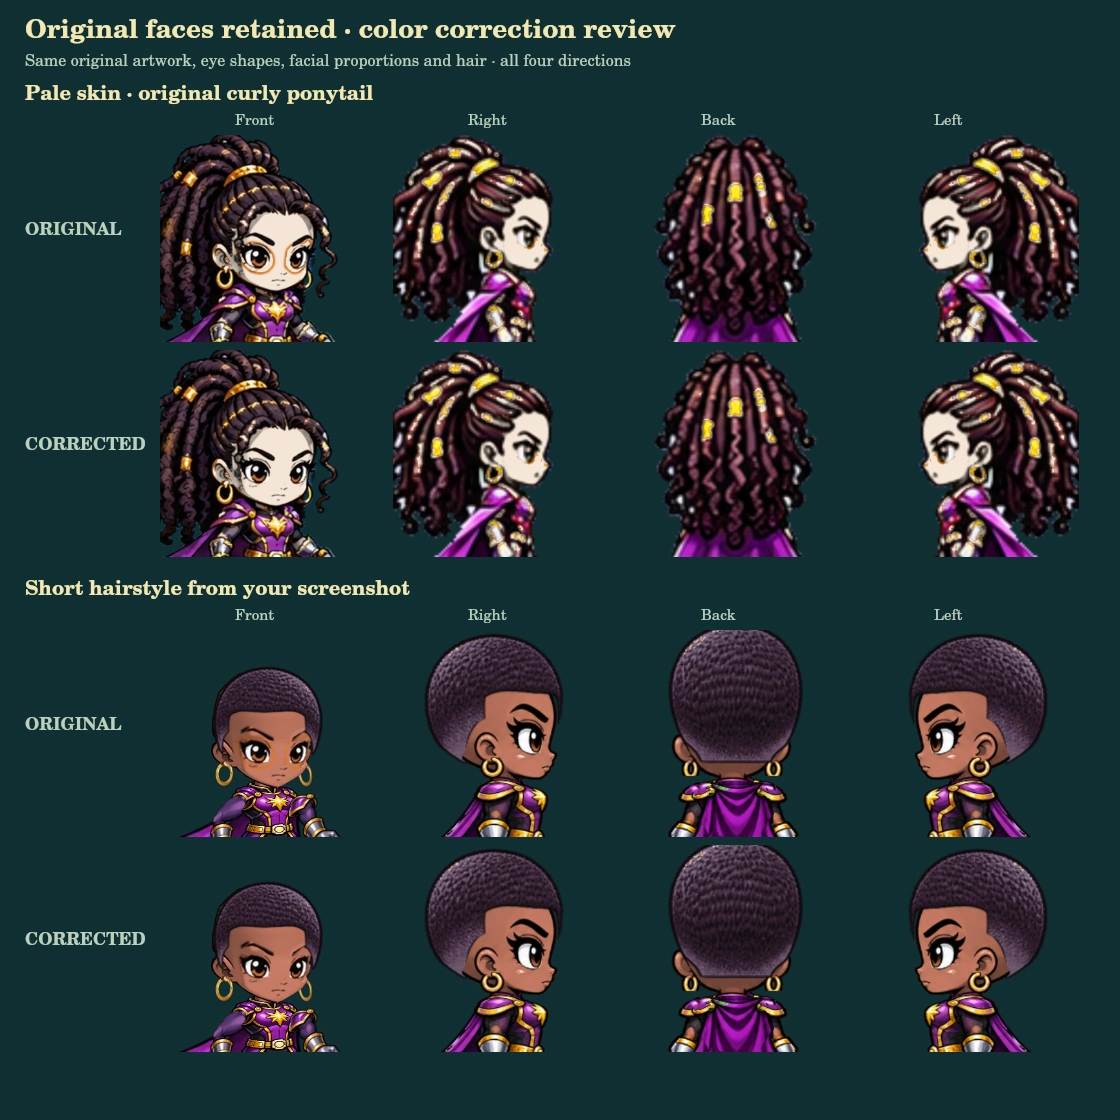
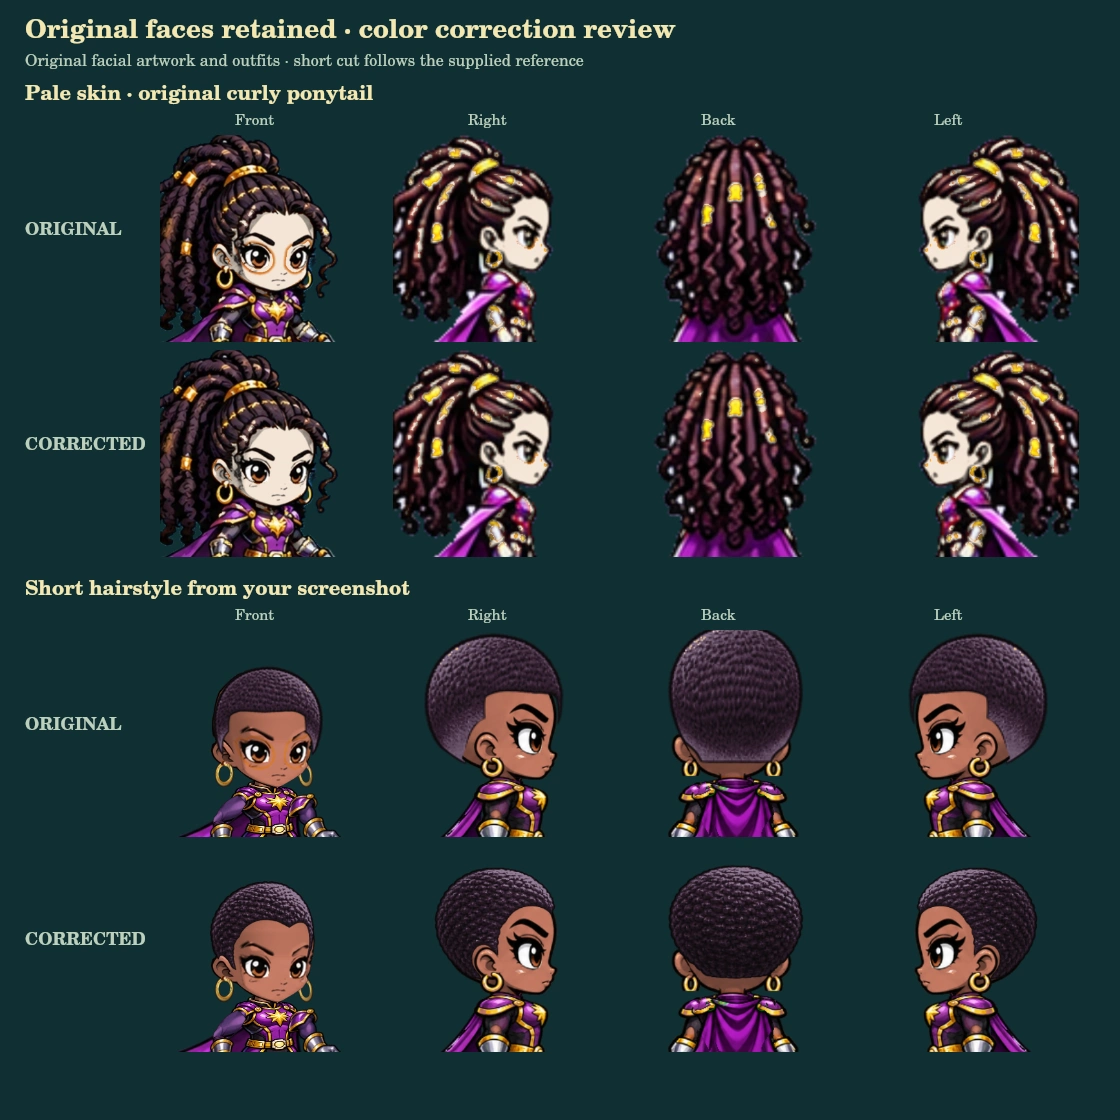
Fit short Style C hair to the corrected Rexi reference
Replace the short cut with a transparent three-view hair plate: rounded crown, curved hairline and fitted temples on the original faces. Keep the original hair atlases for rollback and preserve all other hairstyles, saved appearance selections, costumes and gameplay.

Verify 13 focused tests, 2688 unchanged-art frames, 240 short-hair animation/equipment frames, 392 browser rendering combinations and 20 isolated save checks. Include before/after images and the browser review. Development only; live publication awaits visual approval.

diff --git a/royale/tests/original-face-review.html b/royale/tests/original-face-review.html
@@ -1,11 +1,13 @@
 <!doctype html>
-<html lang="en"><head><meta charset="utf-8"><meta name="viewport" content="width=device-width,initial-scale=1"><title>Original Style C · Face Correction Review</title>
+<html lang="en"><head><meta charset="utf-8"><meta name="viewport" content="width=device-width,initial-scale=1"><title>Style C · Short Hairstyle Reference Review</title>
 <style>
 :root{color-scheme:dark;font-family:system-ui,sans-serif;background:#102e32;color:#e8e5cb}*{box-sizing:border-box}body{margin:0}header{padding:20px 24px;border-bottom:1px solid #58716a;display:flex;align-items:center;gap:20px;flex-wrap:wrap}h1{font-family:Georgia,serif;font-size:30px;margin:3px 0}p{margin:5px 0;line-height:1.5}small{color:#bbcbb7}.badge{margin-left:auto;border:1px solid #c5b87a;border-radius:20px;padding:8px 14px;color:#f9e7a9}main{display:grid;grid-template-columns:minmax(0,1fr) 280px;max-width:1500px;margin:auto}.stage{padding:18px;min-width:0}.views{display:grid;grid-template-columns:repeat(4,minmax(0,1fr));gap:8px}.view{border:1px solid #436359;border-radius:16px;background:radial-gradient(at 50% 55%,#285a50,#14363a 75%);overflow:hidden}.view h2{font-size:14px;text-align:center;color:#dfdcb6;margin:12px 0 0}.view canvas{display:block;width:100%;height:auto}aside{padding:18px;border-left:1px solid #436359}label{display:grid;grid-template-columns:1fr 132px;align-items:center;gap:10px;font-size:13px;margin:9px 0}select,input,button{font:inherit;padding:8px;color:#f4ead3;background:#1c4243;border:1px solid #6a8070;border-radius:7px;min-width:0}input[type=color]{height:36px;width:100%}input[type=range]{padding:3px;width:100%}button{cursor:pointer;min-height:40px}button:focus-visible,select:focus-visible,input:focus-visible{outline:3px solid #f4d88d;outline-offset:2px}.bar{display:flex;gap:8px;align-items:center;flex-wrap:wrap;margin-bottom:12px}.bar select{max-width:240px}.status{color:#bfd7b7;font-size:13px;padding:10px 0}details{margin:14px 0}summary{cursor:pointer;padding:12px;border:1px solid #436359;border-radius:8px}figure{margin:12px 0}figure img{display:block;width:100%;height:auto;border-radius:12px}figcaption{padding:8px;font-size:13px}a{color:#f2d994}.note{font-size:13px;color:#c7d4bf}#diagnostics{white-space:pre-wrap;font:12px monospace}@media(max-width:900px){main{grid-template-columns:1fr}.views{grid-template-columns:repeat(2,minmax(0,1fr))}aside{border-left:0;border-top:1px solid #436359;display:grid;grid-template-columns:repeat(2,1fr);gap:0 20px}header{padding:12px}h1{font-size:25px}.badge{font-size:12px}}@media(max-height:450px) and (min-width:700px){.views{grid-template-columns:repeat(4,minmax(0,1fr))}main{grid-template-columns:minmax(0,1fr) 250px}aside{display:block;max-height:calc(100vh - 85px);overflow:auto;padding:10px}header{padding:8px 16px}header p{font-size:12px}.stage{padding:10px}h1{font-size:22px}}
 </style></head><body>
-<header><div><small>HERO SHOWDOWN ROYALE V3</small><h1>Original faces · corrected colors</h1><p>Original eyes, linework, shading and proportions retained.</p></div><span class="badge">Development preview · awaiting approval</span></header>
+<header><div><small>HERO SHOWDOWN ROYALE V3</small><h1>Reference short hairstyle · original face</h1><p>Rounded crown, curved hairline and fitted temples in all four views.</p></div><span class="badge">Development preview · awaiting approval</span></header>
 <main><section class="stage"><div class="bar"><label>Example <select id="example"></select></label><label>Motion <select id="pose"></select></label><button id="animate">Play animation</button><button id="verify">Check rendering</button></div><div class="views" id="views"></div><p class="status" id="status" role="status">Loading original Style C artwork…</p><p class="note">These are preview characters. This page does not read or write player accounts, inventories, or saves. The official game still uses the approved heads.</p>
-<details><summary>Before & after · screenshot examples</summary><figure><img src="../qa/original-face-review/comparison.webp" alt="Before and after: pale ponytail and short-haired female characters in all four directions"><figcaption>Same saved appearance selections, original hair and outfit artwork.</figcaption></figure></details>
-<details><summary>More skin tones & facial selections</summary><figure><img src="../qa/original-face-review/examples-2.webp" alt="Rebuilt heads with facial hair, darker and fantasy skin colors, and an older bald character"></figure></details>
+<details><summary>Short hairstyle · before & after</summary><figure><img src="../qa/original-face-review/short-hair-comparison.webp" alt="Previous and reference-fitted short hairstyle on the original face in all four directions"><figcaption>Identical appearance selections and original facial artwork in both rows.</figcaption></figure></details>
+<details><summary>Short hairstyle · movement & different heads</summary><figure><img src="../qa/original-face-review/short-hair-animation.webp" alt="Short hairstyle during idle, walking, running, jumping, falling, punching, kicking and fireball"></figure><figure><img src="../qa/original-face-review/short-hair-variants.webp" alt="Male and female short hairstyle with narrow and wide jaws and light and dark skin"></figure></details>
+<details><summary>Original facial artwork · color corrections</summary><figure><img src="../qa/original-face-review/comparison.webp" alt="Before and after: pale ponytail and short-haired female characters in all four directions"><figcaption>Original faces and outfits retained. The short cut uses the new supplied reference.</figcaption></figure></details>
+<details><summary>More skin tones & facial selections</summary><figure><img src="../qa/original-face-review/examples-2.webp" alt="Original heads with facial hair, darker and fantasy skin colors, and an older bald character"></figure></details>
 <details><summary>Eyebrow, mouth & eye selections</summary><figure><img src="../qa/original-face-review/facial-selections.webp" alt="Original illustrated face with different facial selections"></figure></details><pre id="diagnostics"></pre>
 </section><aside id="controls" aria-label="Appearance controls"></aside></main><script type="module" src="original-face-review.mjs"></script></body></html>

diff --git a/royale/qa/original-face-review/README.md b/royale/qa/original-face-review/README.md
@@ -1,44 +1,48 @@
-# Original Style C faces — correction review
+# Original Style C faces and reference short hairstyle
 
-Awaiting visual approval. The official game has not been changed.
+**Development review only. Awaiting visual approval; the official game has not been changed.**
 
-Chris rejected the redrawn faces in `8502b9c8db9d894c22e75fe7990c6e4430f73af4` and required the original appearance. This branch starts again from the verified release `5defeb33c626d19755b26f030b5e7b840f6b4b77`. It contains none of the rejected head renderer, hair reconstruction, or body-rendering changes. Do not deploy the rejected branch.
+Chris rejected the redrawn faces in `8502b9c8db9d894c22e75fe7990c6e4430f73af4`. This branch starts from release `5defeb33c626d19755b26f030b5e7b840f6b4b77` and retains the original illustrated faces. It contains none of the rejected head renderer or body changes. Do not deploy the rejected branch.
 
-![Original and corrected colors in all four views](comparison.webp)
+## Short hairstyle requested from the corrected Rexi image
 
-The original eyes, facial geometry, linework, proportions, hair and costume illustrations are retained. Corrections affect how colors are assigned and how changed features replace their original component. No artwork has been regenerated or edited.
+![Previous short cut and the reference-fitted replacement](short-hair-comparison.webp)
 
-## Corrected defects
+The short cut (`buzz`) now uses a new hair-only transparent plate based on Chris's corrected image: a compact rounded crown, curved forehead hairline, shallow central dip and tapered temples. The original face, ears, earrings, body and costume artwork remain unchanged. This is an intentional replacement of this one hairstyle; all other hairstyles keep their existing artwork and rendering.
 
-- The skin material mask omitted skin beyond the eye-feature rectangles. Recover that material across the original head, preserving iris, eye whites, ink and gold accessories.
-- Erased eyebrow pixels were still classified as eyebrow material. Their skin underlay therefore kept the original orange color. Recolor the original feature and the exposed skin separately before compositing.
-- Eye and eyebrow masks overlapped. Keep original brow ink separate from eye transformations so changing the eye shape does not duplicate the brow.
-- Recover omitted skin material in the original profile's eye region without replacing profile art.
-- Route the explicit `right` view to the existing profile renderer. The creator's established `side` route and existing hair fit corrections remain intact.
+The sheet contains front, right-profile and back artwork. The left view mirrors the entire registered profile with the head. Separate male/female attachment measurements fit the original skulls; the far temple is foreshortened to meet the original three-quarter face. Side and back crowns follow the close-cut silhouette instead of the former tall oval. The same animated head transform moves hair and face together. Existing hair colors, saved `buzz` selections and equipment controls continue to apply. No save migration or preset changes are introduced.
 
-## Visual review
+The old hair atlases remain byte-for-byte unchanged for rollback. The new sibling is `royale/assets/hero/style-c-accurate/hair/buzz-reference-v2.png`. [Asset provenance and generation prompt](short-hair-provenance.md) document the reference and built-in image generation used for the hair-only plate. No face or body was generated.
 
+- [Actual browser preview](short-hair-browser.jpg)
+- [Four views, both presentations, light/dark skin and jaw extremes](short-hair-variants.webp)
+- [Twelve movement and power poses](short-hair-animation.webp)
+
+The before row is rendered from the previous review commit `2a435a65444935e8b3524b008932a4ff8f4dc744`. Both rows use identical appearance selections and framing. Review-only colors approximate the supplied photograph; player-selected colors and live presets are not changed.
+
+## Retained original-face corrections
+
+The preceding review commit corrected skin material coverage across the original head, recolored skin exposed by erased eyebrows, separated overlapping eyebrow/eye masks, recovered omitted profile skin material, and routed the explicit right view to the original profile renderer. It retained the original eyes, proportions, linework and shading. The short-hair change does not alter those face modules.
+
+- [Original face color correction comparison](comparison.webp)
 - [Eyebrow, mouth and eye selections](facial-selections.webp)
-- [Screenshot examples, dark female and light male](examples-1.webp)
+- [Additional original-art examples](examples-1.webp)
 - [Beard, stubble, fantasy skin and older bald hero](examples-2.webp)
-- [Working browser preview](browser-review.jpg)
 
-The local review page is `royale/tests/original-face-review.html`. It uses the same renderer as the game and can switch all existing appearance selections, directions, equipment and animation poses. It does not read or write player accounts or saves.
+The interactive local review page is `royale/tests/original-face-review.html`. It uses the game renderer and exposes existing appearance, equipment and animation choices. It never reads or writes player accounts or saves.
 
 ## Verification
 
-Eight focused tests passed, including an exact comparison of **2,744 rendered frames** against the release renderer: both presentations, all 48 hairstyles plus bald, four established views, and idle/walk/run/jump/fall/punch/kick. With the original palette and facial selections, every compared pixel matches. Color correction also preserves the original alpha silhouette at light, medium, dark and fantasy skin colors. The tests reproduce the old orange eyebrow ghost and confirm its removal.
+All **13 focused tests passed**. The original default face plates remain pixel-identical to the release. **2,688 rendered frames** covering both presentations, every unchanged hairstyle, four established views and seven movement poses remain pixel-identical to the release. The deliberately replaced short style is tested separately: all authored views change, the forehead opening is curved, the far temple contacts the original face at every allowed jaw extreme, and hair colors retain identical alpha. **240 short-hair animation/equipment frames** retain head/shoulder anchors, lower body/equipment pixels and input appearance records. Warm hair animation frames allocate no additional tinted canvases; the existing bounded cache remains in use.
 
-All 42 existing targeted menu/controller, loot/inventory and combat regression tests passed. The browser rendered 392 hairstyle/direction combinations successfully. Twenty browser save checks passed with the original-art appearance fixtures: both visible slots, eight-second save snapshot cadence, levels, XP, all 20 equipment records, powers, Health Roots, selected appearance, exact position/health, document reload and hidden Slot 3 retention.
+Browser rendering passed **392 hairstyle/direction combinations**. The new short cut was inspected in all four views, during movement and with a rare headpiece. **Twenty isolated browser save checks passed**: both visible slots, eight-second save snapshot cadence, levels, XP, all 20 equipment records, powers, Health Roots, selected appearance, exact position/health, document reload and hidden Slot 3 retention.
 
-Browser save verification uses isolated fixture storage and cloud-save snapshot events. No live player save or backend account record was accessed or rewritten; this is not a claim of a new live authentication/backend roundtrip. Authentication, saves, slot visibility, gameplay, combat tuning, equipment, body/cape assets, and other modes are unchanged from the release baseline.
+The earlier review also passed all 42 targeted menu/controller, loot/inventory and combat regression tests. Those protected systems are unchanged by this hair-only revision. Browser save verification uses fixture storage and cloud-save snapshot events; no live player or backend account record was accessed or rewritten, and this is not a new live authentication/backend roundtrip claim.
 
 ```sh
-node --expose-gc --test royale/tests/original-face-fidelity.test.mjs
-node --test royale/tests/menu-gamepad.test.mjs royale/tests/menu-navigation.test.mjs royale/tests/v3-loot.test.mjs royale/tests/v3-combat.test.mjs
+node --expose-gc --test royale/tests/original-face-fidelity.test.mjs royale/tests/short-hair-reference.test.mjs
 node royale/tests/render-original-face-review.mjs
+node royale/tests/render-short-hair-review.mjs
 ```
 
-The test-only reference loader reads source modules from the release commit and shares unchanged artwork read-only. Both comparison rows are rendered with identical selections and framing. The Canvas test dependency is `@napi-rs/canvas`.
-
-Publish only after approval of this original-art correction. The prior redrawn-head proposal remains rejected.
+Publish only after Chris approves the visual result. The prior redrawn-head proposal remains rejected.

diff --git a/royale/qa/original-face-review/short-hair-provenance.md b/royale/qa/original-face-review/short-hair-provenance.md
@@ -1,0 +1,17 @@
+# Reference short-hair asset
+
+- User reference: corrected Rexi image attached on 2026-11-06 (`A6223535-5581-4B44-A998-184CB8DA9929(3).jpeg`).
+- Mode: built-in image generation, reference edit with a transparent background.
+- Final asset: `royale/assets/hero/style-c-accurate/hair/buzz-reference-v2.png`, 2172 × 724 pixels, RGBA. The generated PNG is retained unchanged.
+- Three authored views: front three-quarter right, right profile, back. Left mirrors the profile together with the original head.
+- Integration: registered crop rectangles omit transparent sheet gutters; per-presentation skull fitting and existing hair-color tinting happen in the renderer. The original hair atlases and original face/body artwork remain unchanged.
+- Status: visual approval required before live publication.
+
+## Prompt
+
+```text
+Use case: precise-object-edit / production game sprite extraction.
+Asset: ONE transparent PNG hair sprite sheet with three equally spaced columns, no labels. This is the SAME short hairstyle in three directions: column 1 = the exact front three-quarter RIGHT-facing hair from the supplied image, column 2 = strict right profile of that same haircut, column 3 = back view.
+Input image 1 is the authoritative approved hairstyle reference, not a reference for new facial artwork. Extract and faithfully reproduce ONLY Rexi's short dark-purple tightly coiled hair. Preserve its compact rounded crown, close-cut fine coil texture, black outline, violet highlights, curved natural forehead hairline, slight shallow central dip, and neatly tapered temples. The front sprite must match the shape in the supplied image: rounded and seated on the skull, not the older tall oval wig or a straight rectangular forehead opening. The hairline arcs smoothly above the eyebrows and turns down into short clean sideburns at the temples.
+The head is invisible: there must be absolutely NO skin, face, forehead, eyebrows, eyes, ears, earrings, neck, costume, body or mannequin. The front and profile face openings are fully transparent. Back sprite contains hair only with a neat rounded nape. All three sprites must have matching skull scale and the same compact haircut, generous transparent margins, perfectly separated cells, consistent upright orientation. No rotation or skew. Keep the illustrated, detailed Style C hair texture from the reference; do not turn it into flat vector art. Do not add accessories, curls sticking out, bangs, braids, an afro, extra volume, or shaved patterns. No text, borders, arrows, shadows, background or checkerboard pixels. Actual transparent alpha background.
+```
